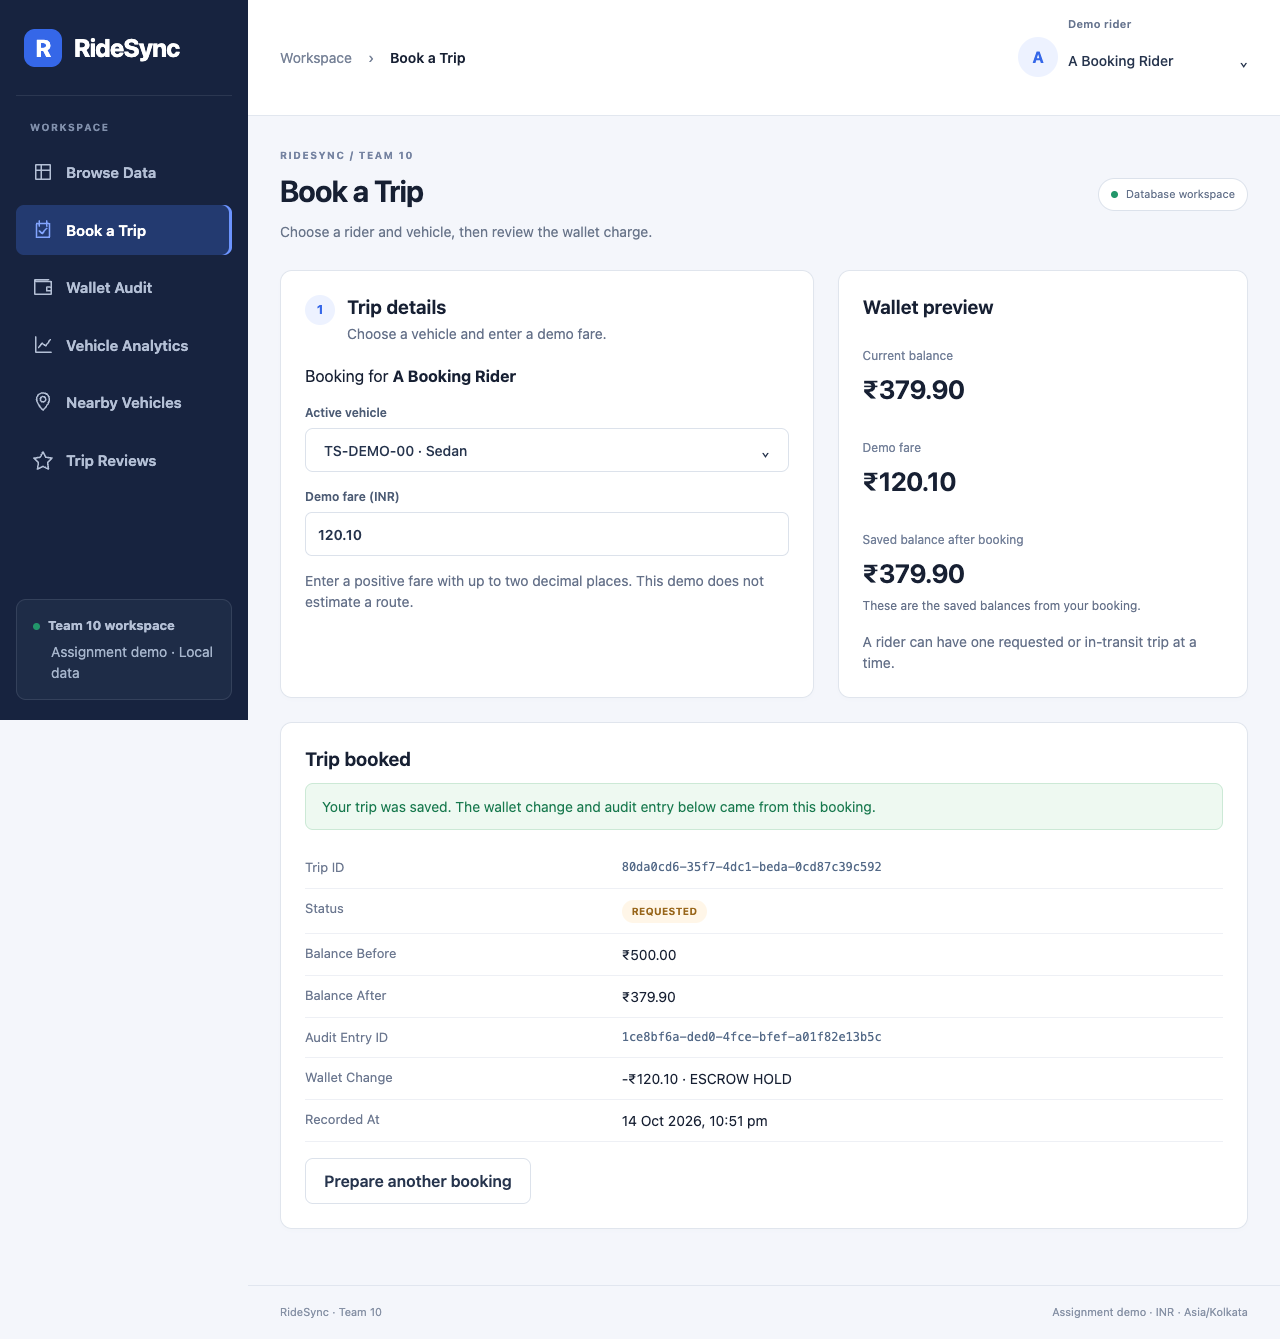
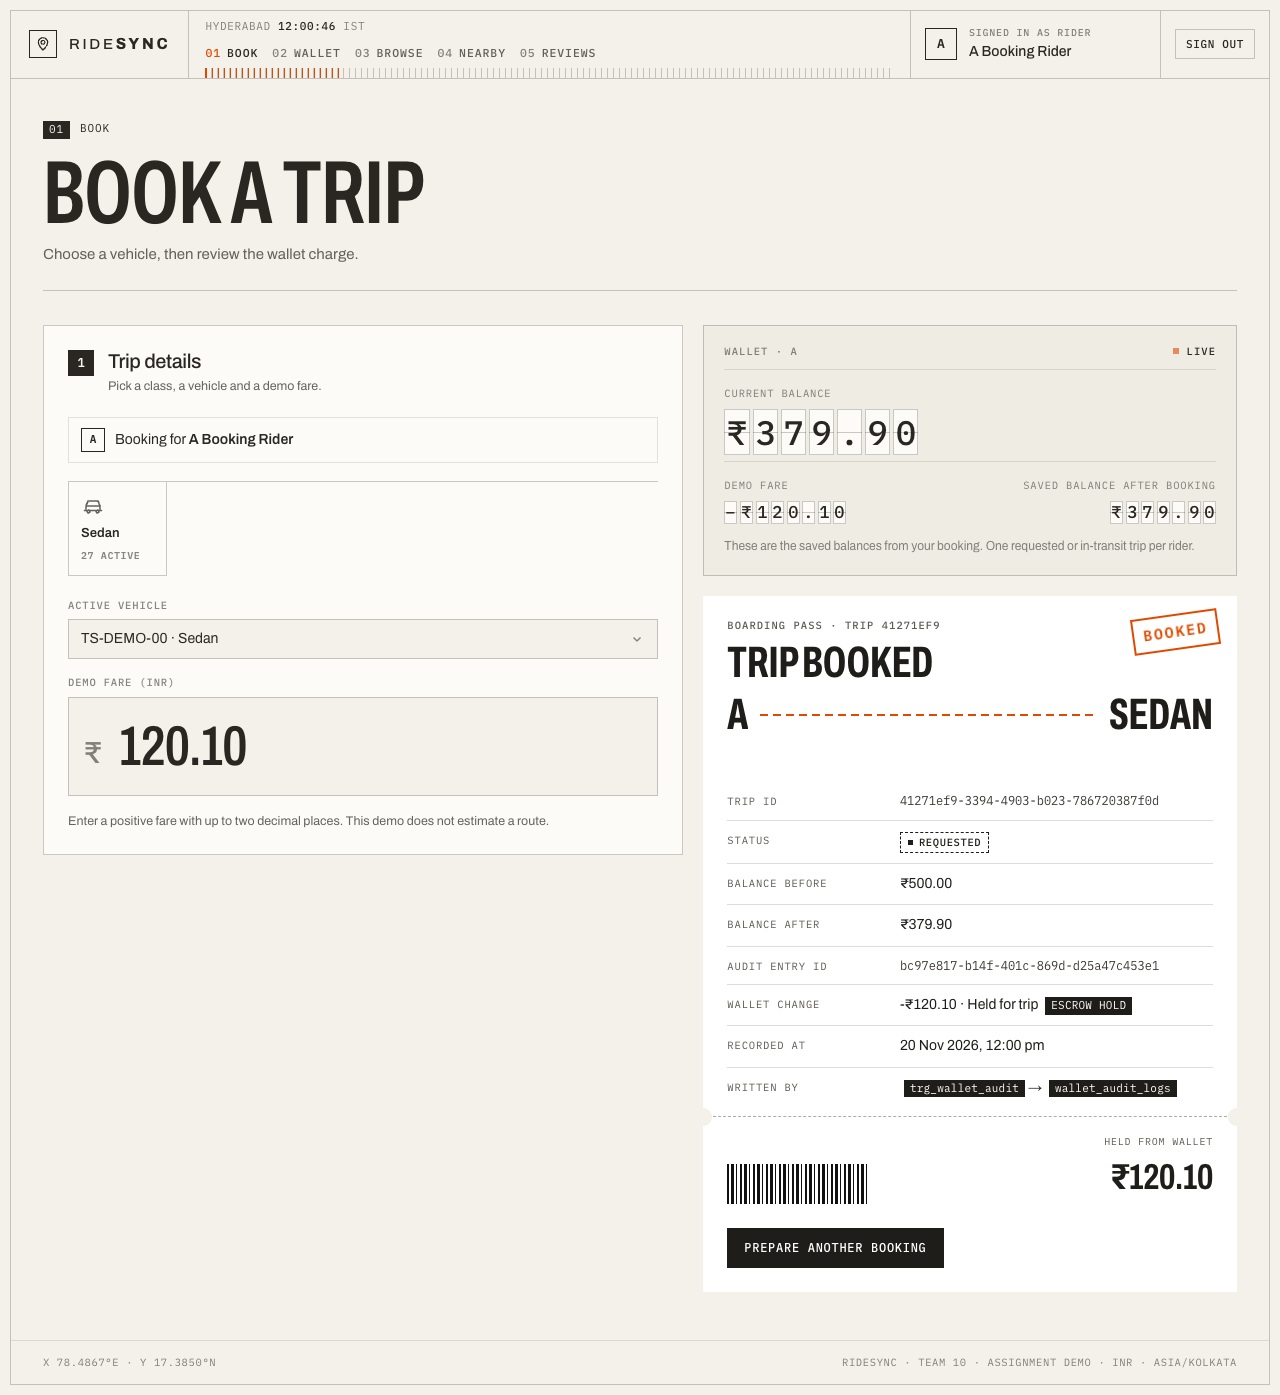
Refresh README screenshots for the new design
The screenshots still showed the first UI. Regenerate them with the browser
tests (the capture helper now waits for animations to settle), add a homepage
capture, and update the README and screenshots index captions.

diff --git a/web/tests/workflows.spec.js b/web/tests/workflows.spec.js
@@ -4,6 +4,8 @@ const screenshots = process.env.RIDESYNC_SCREENSHOTS || '../docs/design/screensh
 async function capture(page, name) {
   await page.locator('h1').focus()
   await page.evaluate(() => window.scrollTo(0, 0))
+  // Let balance flips, dialogs and the phone menu finish animating before the picture.
+  await page.waitForTimeout(1500)
   await page.screenshot({ path: screenshots + '/' + name, fullPage: true })
 }
 
@@ -214,6 +216,7 @@ test('admin phone view inspects a rider and scrolls wide tables', async ({ page 
   await navigate(page, 'Wallet Audit')
   await expect(page.getByRole('table', { name: 'Wallet audit trail' })).toBeVisible()
   expect(await page.evaluate(() => document.documentElement.scrollWidth <= innerWidth)).toBe(true)
+  await capture(page, 'wallet-phone.png')
   await page.getByRole('button', { name: 'Open navigation' }).click()
   await navigate(page, 'Browse Data')
   const table = page.getByRole('region', { name: 'Browse riders' })
@@ -223,6 +226,7 @@ test('admin phone view inspects a rider and scrolls wide tables', async ({ page 
 test('rider and admin get separate views, and the API enforces the split', async ({ page }) => {
   await page.goto('/')
   await expect(page.getByRole('heading', { level: 1, name: /Every ride, perfectly in sync/ })).toBeVisible()
+  await capture(page, 'home-desktop.png')
   await expect(page.getByRole('navigation', { name: 'Main navigation' })).toHaveCount(0)
   for (const section of ['How it works', 'Rider & admin', 'Fleet']) await expect(page.getByRole('navigation', { name: 'Site' }).getByRole('link', { name: section })).toBeVisible()
   await page.getByRole('tab', { name: 'Admin' }).click()

diff --git a/docs/design/screenshots/README.md b/docs/design/screenshots/README.md
@@ -1,13 +1,14 @@
 # Implemented screen captures
 
-These captures were made by the browser tests against temporary fixture data on 11 October 2026. They are examples of the working UI, not real user accounts. The nearby test blocks public map tiles; the origin, vehicle markers and distance list use real API results.
+These captures were made by the browser tests against temporary fixture data on 20 November 2026. They are examples of the working UI, not real user accounts. The nearby test blocks public map tiles; the origin, vehicle markers and distance list use real API results.
 
-- [Browse data](browse-desktop.png)
-- [Booking with its saved audit entry](booking-desktop.png)
-- [Wallet history](wallet-desktop.png)
-- [Vehicle revenue and lifetime totals](analytics-desktop.png)
+- [Home and sign-in](home-desktop.png)
+- [Browse data (admin)](browse-desktop.png)
+- [Booking with its saved audit entry (rider)](booking-desktop.png)
+- [My wallet history (rider)](wallet-desktop.png)
+- [Vehicle revenue and lifetime totals (admin)](analytics-desktop.png)
 - [Nearby vehicles](nearby-desktop.png)
 - [Reviews and vehicle metadata](reviews-desktop.png)
-- [Phone wallet layout](wallet-phone.png)
+- [Phone wallet audit layout (admin)](wallet-phone.png)
 
-The wireframes remain in the parent folder. Full-size checks were run later (see ../../scale_verification.md). A 1-minute demo video is in ../../demo/demo.mp4.
+The older wireframes remain in the parent folder; the current ones are in ../wireframes-v2/. Full-size checks were run later (see ../../scale_verification.md). A 1-minute demo video is in ../../demo/demo.mp4.

diff --git a/README.md b/README.md
@@ -44,10 +44,10 @@ These were taken by the browser tests, using small temporary test records (not r
 
 | | |
 |---|---|
-| ![Browse](docs/design/screenshots/browse-desktop.png) Browse | ![Booking](docs/design/screenshots/booking-desktop.png) Booking with audit entry |
-| ![Wallet](docs/design/screenshots/wallet-desktop.png) Wallet audit | ![Analytics](docs/design/screenshots/analytics-desktop.png) Analytics |
-| ![Nearby](docs/design/screenshots/nearby-desktop.png) Nearby vehicles | ![Reviews](docs/design/screenshots/reviews-desktop.png) Reviews and metadata |
-| <img src="docs/design/screenshots/wallet-phone.png" width="240" alt="Phone wallet layout"><br>Phone layout (wallet audit) | |
+| ![Home](docs/design/screenshots/home-desktop.png) Home and sign-in (rider or admin) | ![Browse](docs/design/screenshots/browse-desktop.png) Browse (admin) |
+| ![Booking](docs/design/screenshots/booking-desktop.png) Booking with audit entry (rider) | ![Wallet](docs/design/screenshots/wallet-desktop.png) My wallet (rider) |
+| ![Analytics](docs/design/screenshots/analytics-desktop.png) Analytics (admin) | ![Nearby](docs/design/screenshots/nearby-desktop.png) Nearby vehicles |
+| ![Reviews](docs/design/screenshots/reviews-desktop.png) Reviews and metadata | <img src="docs/design/screenshots/wallet-phone.png" width="240" alt="Phone wallet audit layout"><br>Phone layout (admin wallet audit) |
 
 ## Setup
 
